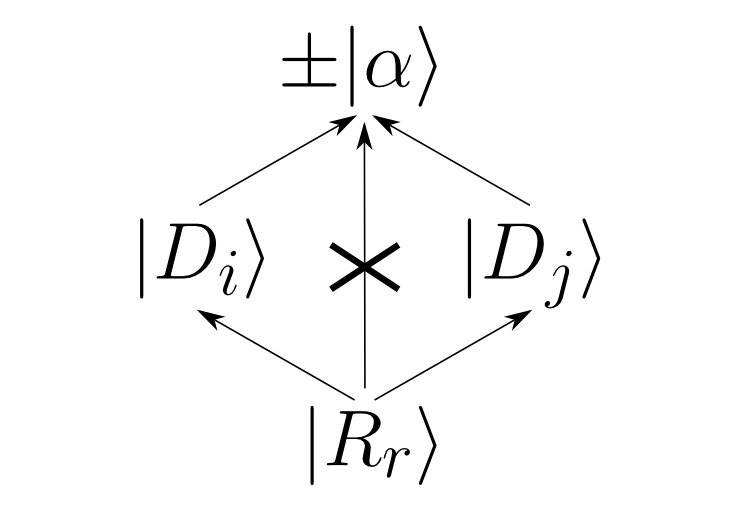
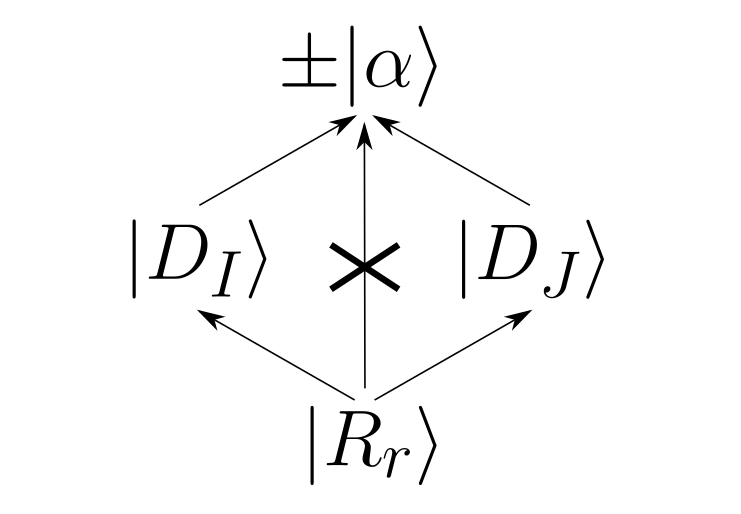
figures

Changed region(s): [[0.1552, 0.4358, 0.3725, 0.5914], [0.6208, 0.4047, 0.8381, 0.5914]]

diff --git a/exp_dressing.tex b/exp_dressing.tex
@@ -213,9 +213,9 @@ Among these intermediate sets only $\tilde{\mathcal{C}}_{r0}$ and $\tilde{\mathc
 \begin{algorithm}
 \caption{Compute a $c_\alpha$ for MRCC}
 \KwData{$\kalpha$ the considered exernal determinant}
-\KwData{$\ket {D_i}$ the list of $N$ internal determinants connected to $\kalpha$, sorted by increasing integer value}
+\KwData{$\ket {D_I}$ the list of $N$ internal determinants connected to $\kalpha$, sorted by increasing integer value}
 \KwData{$\ket {R_i}$ the list of $N_{ref}$ reference determinants sorted by increasing integer value and $c_{R_i}$ their coefficient}
-\KwData{$t_{R_r \rightarrow D_i}$ the used amplitudes}
+\KwData{$t_{R_r \rightarrow D_I}$ the used amplitudes}
 \KwResult{$c_\alpha$} 
 
 $c_\alpha \gets 0$ \;
@@ -223,24 +223,24 @@ discard $R_r$ when $\text{EXC\_DEGREE} (R_r, \alpha) > 4$ \;
 if $R_r$ so that $\text{EXC\_DEGREE} (R_r, \alpha) \leq 2$ was found, discard $\kalpha$ \;
 
 
-\ForAll{$D_j$}{
-\tcc{Note that $\phase{\ket {D_j}}{\kalpha}$ may be pre-computed here}
-$\delta \gets \alpha - D_j$ \;
+\ForAll{$D_J$}{
+\tcc{Note that $\phase{\ket {D_J}}{\kalpha}$ may be pre-computed here}
+$\delta \gets \alpha - D_J$ \;
 $i \gets 1$ \;
 $r \gets 1$ \;
 \While{$i \leq N \wedge r \leq N_{ref}$}{
-	\uIf{$D_i - R_r > \delta$}{
+	\uIf{$D_I - R_r > \delta$}{
 		$r \gets r + 1$ \;
 	}
-	\uElseIf{$D_i - R_r < \delta$}{
+	\uElseIf{$D_I - R_r < \delta$}{
 		$i \gets i + 1$ \;
 	}
 	\Else
 	{
-		\If{$R_r \oplus D_i \oplus D_j \oplus \alpha = 0$}{
+		\If{$R_r \oplus D_I \oplus D_J \oplus \alpha = 0$}{
 			\tcc{diamond found}
-			$\varphi \gets \phase{\ket {D_j}}{\kalpha} \times \phase{\ket {R_r}}{\ket {D_i}}$ \;
-			$c_\alpha \gets c_\alpha + \varphi \times c_{R_r} \times (t_{R_r \rightarrow D_i}) \times (t_{R_r \rightarrow D_j})$ \;
+			$\varphi \gets \phase{\ket {D_J}}{\kalpha} \times \phase{\ket {R_r}}{\ket {D_I}}$ \;
+			$c_\alpha \gets c_\alpha + \varphi \times c_{R_r} \times (t_{R_r \rightarrow D_I}) \times (t_{R_r \rightarrow D_J})$ \;
 		}
 		$r \gets r + 1$ \;
 		$i \gets i + 1$ \;
@@ -264,20 +264,20 @@ The formula for $c_\alpha$ as well as the procedure for computing amplitudes is 
 	\end{center}
 %\end{figure}
 
-With $\kalpha$ the external determinant being considered, $\ket {D_i}$ and $\ket {D_j}$ internal determinants, and $\ket {R_r}$ a reference determinant.  Parallel arrows indicate connections (excitation degree at most 2) by the same excitation, the vertical arrow indicates $\ket {R_r}$ and $\kalpha$ aren't connected (excitation degree at least 3). More generally, we only consider $\kalpha$ determinants that are not connected to any $\ket {R_r}$. All the determinants we are considering are ordered according to $\ordering$.
+With $\kalpha$ the external determinant being considered, $\ket {D_I}$ and $\ket {D_J}$ internal determinants, and $\ket {R_r}$ a reference determinant.  Parallel arrows indicate connections (excitation degree at most 2) by the same excitation, the vertical arrow indicates $\ket {R_r}$ and $\kalpha$ aren't connected (excitation degree at least 3). More generally, we only consider $\kalpha$ determinants that are not connected to any $\ket {R_r}$. All the determinants we are considering are ordered according to $\ordering$.
 
 The matrix dressing implementation supplies $\{\mathcal{D}\}$ the complete set of the $N$ internal determinants that connect to $\kalpha$. We call $\{\mathcal{R}\}$ the set of the $N_{ref}$ reference determinants.
 
 A naive way to find those diamonds, would be to loop over all unordered triplets 
 
 \begin{equation}
-(D_i \in \{\mathcal{D}\}, D_j \in \{\mathcal{D}\}, R_r \in \{\mathcal{R}\})
+(D_I \in \{\mathcal{D}\}, D_J \in \{\mathcal{D}\}, R_r \in \{\mathcal{R}\})
 \end{equation}
 
 so that
 
 \begin{equation}
-\hat T_{R_r \rightarrow D_i} \hat T_{R_r \rightarrow D_j} \ket {R_r} = \pm \kalpha
+\hat T_{R_r \rightarrow D_I} \hat T_{R_r \rightarrow D_J} \ket {R_r} = \pm \kalpha
 \end{equation}
 
 with $\hat T_{R_r \rightarrow D}$ the excitation operator so that $\hat T_{R_r \rightarrow D} \ket R = \ket D$.
@@ -286,11 +286,11 @@ with $\hat T_{R_r \rightarrow D}$ the excitation operator so that $\hat T_{R_r \
 
 Using excitation operators, a diamond can be identified by only verifying
 \begin{equation}
-\hat T_{R_r \rightarrow D_i} = \pm \hat T_{D_j \rightarrow \alpha}
+\hat T_{R_r \rightarrow D_I} = \pm \hat T_{D_J \rightarrow \alpha}
 \label{eq:excitation_diamond}
 \end{equation}
 
-In other words that $\hat T_{R_r \rightarrow D_i}$ and $\hat T_{D_j \rightarrow \alpha}$ involve the same holes and particles (the sign of $T_{D_j \rightarrow \alpha}$ sets the sign in of $\kalpha$ in a diamond).
+In other words that $\hat T_{R_r \rightarrow D_I}$ and $\hat T_{D_J \rightarrow \alpha}$ involve the same holes and particles (the sign of $T_{D_J \rightarrow \alpha}$ sets the sign in of $\kalpha$ in a diamond).
 We first set up a method to identify a diamond, then two methods to ``locate'' them.
 
 
@@ -313,16 +313,16 @@ This avoids the burden of making a distinction between anihilation and creation 
 
 The notation $\hat f_{ab\ldots}$ will be used as a shortcut for $\hat f_a \hat f_b \ldots$, and we define $\hat F_{A \rightarrow B} = \hat F_{B \rightarrow A}$ as the set of $\hat f$ operators that flips all spinorbitals whose occupation differ between $\ket A$ and $\ket B$.
 
-Clearly a set of $\hat f$ operators does not univocaly correspond to an excitation, but it is demonstrable that in this particular case, we can use $\hat F$ instead of the excitation operator $\hat T$, i.e. we can ensure $(R_r, D_i, D_j, \alpha)$ are forming a diamond by only verifying
+Clearly a set of $\hat f$ operators does not univocaly correspond to an excitation, but it is demonstrable that in this particular case, we can use $\hat F$ instead of the excitation operator $\hat T$, i.e. we can ensure $(R_r, D_I, D_J, \alpha)$ are forming a diamond by only verifying
 \begin{equation}
-\hat F_{R_r \rightarrow D_i} = \hat F_{D_j \rightarrow \alpha}
+\hat F_{R_r \rightarrow D_I} = \hat F_{D_J \rightarrow \alpha}
 \label{eq:diamond_flip}
 \end{equation}
 
-It is easy to understand from Eq.~\eqref{eq:excitation_diamond} how this is a necessary condition, it is less obvious that it is also a sufficient one, i.e. that this can only happen if there is a diamond. In fact, it is not generally true. It is demonstrable in this particular case thanks to the known excitation degrees. It is known $\ket {D_i}$ and $\ket {D_j}$ are connected by at most a double excitation to $\kalpha$, therefore at most 4 orbitals have their occupation status flipping, two of them occupied and two unoccupied in $\kalpha$. For later clarity we use the dot ($\dot a$) notation to denote indices of spinorbitals that are occupied in $\kalpha$.
+It is easy to understand from Eq.~\eqref{eq:excitation_diamond} how this is a necessary condition, it is less obvious that it is also a sufficient one, i.e. that this can only happen if there is a diamond. In fact, it is not generally true. It is demonstrable in this particular case thanks to the known excitation degrees. It is known $\ket {D_I}$ and $\ket {D_J}$ are connected by at most a double excitation to $\kalpha$, therefore at most 4 orbitals have their occupation status flipping, two of them occupied and two unoccupied in $\kalpha$. For later clarity we use the dot ($\dot a$) notation to denote indices of spinorbitals that are occupied in $\kalpha$.
 
 \begin{equation}
-\hat F_{D_i \rightarrow \alpha} = \hat F_{R_r \rightarrow D_j} = \hat f_{\dot a \dot bcd} \; ; \; \hat F_{D_j \rightarrow \alpha} = \hat F_{R_r \rightarrow D_i} = \hat f_{\dot e \dot fgh}
+\hat F_{D_I \rightarrow \alpha} = \hat F_{R_r \rightarrow D_J} = \hat f_{\dot a \dot bcd} \; ; \; \hat F_{D_J \rightarrow \alpha} = \hat F_{R_r \rightarrow D_I} = \hat f_{\dot e \dot fgh}
 \end{equation}
 
 The reference determinant $\ket {R_r}$ is reached from $\kalpha$ after chaining the two ``flippenings''.
@@ -331,7 +331,7 @@ The reference determinant $\ket {R_r}$ is reached from $\kalpha$ after chaining 
 \hat F_{R \rightarrow \alpha} = (\hat f_{\dot a \dot bcd})(\hat f_{\dot e \dot fgh})
 \end{equation}
 
-If indices $\dot a,\dot b,c,d,\dot e,\dot f,g,h$ are all unique, $\hat T_{R \rightarrow D_i}$ and $\hat T_{D_j \rightarrow \alpha}$ are independent and thus can be chained, so the diamond is valid. If they are not, the diamond is still known to be valid thanks to our knowledge that $\kalpha$ is at least a triple excitation from $\ket {R_r}$, and therefore at least 6 orbitals must flip. 
+If indices $\dot a,\dot b,c,d,\dot e,\dot f,g,h$ are all unique, $\hat T_{R \rightarrow D_I}$ and $\hat T_{D_J \rightarrow \alpha}$ are independent and thus can be chained, so the diamond is valid. If they are not, the diamond is still known to be valid thanks to our knowledge that $\kalpha$ is at least a triple excitation from $\ket {R_r}$, and therefore at least 6 orbitals must flip. 
 
 It is trivial that
 
@@ -358,13 +358,13 @@ With $A$ a single bitstring associated with $\ket A$ - the association between a
 Eq.~\eqref{eq:diamond_flip} is verified iff
 
 \begin{equation}
-R_r \oplus D_i = D_j \oplus \alpha
+R_r \oplus D_I = D_J \oplus \alpha
 \end{equation}
 
 or alternatively, since $A \oplus A = 0$
 
 \begin{equation}
-R_r \oplus D_i \oplus D_j \oplus \alpha = 0
+R_r \oplus D_I \oplus D_J \oplus \alpha = 0
 \label{eq:diamond_xor}
 \end{equation}
 
@@ -372,27 +372,27 @@ R_r \oplus D_i \oplus D_j \oplus \alpha = 0
 Now that we expressed the identification of a diamond in a simple way, we must figure a strategy to find them fast. Eq.~\eqref{eq:diamond_xor} can be rewritten as
 
 \begin{equation}
-D_j = R_r \oplus D_i \oplus \alpha
+D_J = R_r \oplus D_I \oplus \alpha
 \end{equation}
 
 which implies a simple algorithm that finds the diamonds in $\mathcal{O}(N \times N_{ref} \times log(N))$.
 \begin{enumerate}
 \item
-iterate over $(R_r, D_i)$
+iterate over $(R_r, D_I)$
 \item
-binary search for $D_j = (R_r \oplus D_i \oplus \alpha)$ in $\{D\}$. 
+binary search for $D_J = (R_r \oplus D_I \oplus \alpha)$ in $\{\mathcal{D}\}$. 
 \end{enumerate}
 
 Depending on the size of $\{D\}$ and $\{R\}$ sets, this variant can also be used, giving a complexity of $\mathcal{O}(N^2 \times log(N_{ref}))$.
 
 \begin{enumerate}
 \item
-iterate over $(D_i, D_j)$
+iterate over $(D_I, D_J)$
 \item
-binary search for $R_r = (D_i \oplus D_j \oplus \alpha)$ in $\{\mathcal{R}\}$. 
+binary search for $R_r = (D_I \oplus D_J \oplus \alpha)$ in $\{\mathcal{R}\}$. 
 \end{enumerate}
 
-Those are desirable if one of $\{\mathcal{D}\}$ or $\{\mathcal{R}\}$ is relatively small, in particular, in case of single-reference computation, i.e. $|R|=1$, the former variant is ideal. For larger sets, however, a more complex variant with a complexity $\mathcal{O}(N \times (N+N_{ref}))$ is introduced next.
+Those are desirable if one of $\{\mathcal{D}\}$ or $\{\mathcal{R}\}$ is relatively small, in particular, in case of single-reference computation, i.e. $|\mathcal{R}|=1$, the former variant is ideal. For larger sets, however, a more complex variant with a complexity $\mathcal{O}(N \times (N+N_{ref}))$ is introduced next.
 
 
 \paragraph{Locating diamonds by rewriting excitations as additions}
@@ -409,7 +409,7 @@ T_{A \rightarrow B} + A = B
 With $A$ the bitstring associated with $\ket A$ as a single integer - the association between a spinorbital and a bit is arbitrary. It is a necessary but not sufficent condition for a diamond that
 
 \begin{equation}
-T_{R \rightarrow D_i} = T_{D_j \rightarrow \alpha}
+T_{R \rightarrow D_I} = T_{D_J \rightarrow \alpha}
 \end{equation}
 
 Indeed 
@@ -422,10 +422,10 @@ with $T$ the integer associated with excitation $\pm \hat T$. If $\pm \hat T \ke
 Eq.~\eqref{eq:excitation_diamond} implies
 
 \begin{align}
-D_i - R_r = \alpha - D_j 
+D_I - R_r = \alpha - D_J 
 \end{align}
 
-Finding all $(D_i, R_r)$ pairs that verify this, assuming $\{\mathcal{D}\}$ and $\{\mathcal{R}\}$ are sorted in ascending order, can be achieved with linear complexity.
+Finding all $(D_I, R_r)$ pairs that verify this, assuming $\{\mathcal{D}\}$ and $\{\mathcal{R}\}$ are sorted in ascending order, can be achieved with linear complexity.
 
 % with a complexity of either $\mathcal{O}(N + N_{ref})$ or $\mathcal{O}(N \times min(N, N_{ref}) \times log(max(N, N_{ref})))$
 
@@ -435,11 +435,11 @@ initialize $i$ and $r$ to $1$
 \item
 loop while both $i$ and $r$ are not out of bounds
 \item
-if $D_i - R_r < \alpha - D_j$, increment $i$ and loop
+if $D_I - R_r < \alpha - D_J$, increment $i$ and loop
 \item
-if $D_i - R_r > \alpha - D_j$, increment $r$ and loop
+if $D_I - R_r > \alpha - D_J$, increment $r$ and loop
 \item
-if $D_i - R_r = \alpha - D_j$, a $(D_i, R_r)$ pair has been found. Check diamond using Eq.~\eqref{eq:diamond_xor}. Increment $i$ and $r$, and loop
+if $D_I - R_r = \alpha - D_J$, a $(D_I, R_r)$ pair has been found. Check diamond using Eq.~\eqref{eq:diamond_xor}. Increment $i$ and $r$, and loop
 \end{enumerate}
 
 The complexity is $\mathcal{O}(N \times (N+N_{ref}))$.
@@ -477,7 +477,7 @@ t_{I \rightarrow i} = \frac{t_{pq \rightarrow rs}}{\phase{\ket I}{\ket i}}
 In order to compute the contribution of a diamond to $c_\alpha$, we are required to compute the phase factor
 
 \begin{equation}
-\phase{\ket {R_r}}{\kalpha} = \phase{\ket {R_r}}{\ket {D_i}} \phase{\ket {D_i}}{\kalpha}
+\phase{\ket {R_r}}{\kalpha} = \phase{\ket {R_r}}{\ket {D_I}} \phase{\ket {D_I}}{\kalpha}
 \end{equation}
 
 
@@ -485,19 +485,19 @@ In order to compute the contribution of a diamond to $c_\alpha$, we are required
 which is noted $(-1)^{n(I \rightarrow \alpha)}$ in equation 26 of the presented article, with $I$ the reference determinant. The article uses reference-independent notation for amplitudes. If we re-write the formula with reference-dependent notations, the contribution for each diamond becomes
 
 \begin{equation}
-c_r \phase{\ket {R_r}}{\kalpha} \frac{t_{R_r \rightarrow D_i}}{\phase{\ket {R_r}}{\ket {D_i}}} \frac{t_{D_i \rightarrow \alpha}}{\phase{\ket {D_i}}{\kalpha}} =c_r t_{R_r \rightarrow D_i} t_{D_i \rightarrow \alpha}
+c_r \phase{\ket {R_r}}{\kalpha} \frac{t_{R_r \rightarrow D_I}}{\phase{\ket {R_r}}{\ket {D_I}}} \frac{t_{D_I \rightarrow \alpha}}{\phase{\ket {D_I}}{\kalpha}} =c_r t_{R_r \rightarrow D_I} t_{D_I \rightarrow \alpha}
 \end{equation}
 with $c_r$ the coefficient of $\ket {R_r}$.
-Amplitude for $t_{D_i \rightarrow \alpha}$ of course cannot be stored and would be too expensice to compute on the fly. Because $\hat T_{D_i \rightarrow \alpha}$ involves the same orbitals as $\hat T_{R_r \rightarrow D_j}$, their associated amplitudes are the same up to the phase factor
+Amplitude for $t_{D_I \rightarrow \alpha}$ of course cannot be stored and would be too expensice to compute on the fly. Because $\hat T_{D_I \rightarrow \alpha}$ involves the same orbitals as $\hat T_{R_r \rightarrow D_J}$, their associated amplitudes are the same up to the phase factor
 
 \begin{equation}
-t_{D_i \rightarrow \alpha} = t_{R_r \rightarrow D_j} \phase{\ket {R_r}}{\ket {D_j}}\phase{\ket {D_i}}{\kalpha}
+t_{D_I \rightarrow \alpha} = t_{R_r \rightarrow D_J} \phase{\ket {R_r}}{\ket {D_J}}\phase{\ket {D_I}}{\kalpha}
 \end{equation}
 
 So we can finally rewrite the contribution to $c_\alpha$ for each diamond
 
 \begin{equation}
-c_r t_{R_r \rightarrow D_i} t_{R_r \rightarrow D_j} \phase{\ket {R_r}}{\ket {D_j}}\phase{\ket {D_i}}{\kalpha}
+c_r t_{R_r \rightarrow D_I} t_{R_r \rightarrow D_J} \phase{\ket {R_r}}{\ket {D_J}}\phase{\ket {D_I}}{\kalpha}
 \end{equation}
 
 \end{document}

diff --git a/matrix_dressing.tex b/matrix_dressing.tex
@@ -252,7 +252,6 @@ with $j$ the task index associated with $I$, i.e. $Q[j]=I$. These sets are track
 	\begin{center}
 		\includegraphics[width=0.45\columnwidth]{figures/matrix_dressing/taskqueue}
 		\caption{Task queue divided in checkpoints $\mathcal{P}_m$. The task array $Q$ contains the indices of samples to be computed. When all tasks in sets $\mathcal{P}_{p\leq m}$ have been computed, checkpoint $m$ is computable.
-\alert{Refaire la figure avec des $Q$.}
 }
 		\label{fig:task_queue}
 	\end{center}

diff --git a/cipsi.tex b/cipsi.tex
@@ -60,7 +60,7 @@ There are, perhaps schematically, two ways to do this :
 
 %\begin{figure}[h!]
 	\begin{center}
-		\includegraphics[width=0.4\columnwidth]{figures/matrix_dressing/interactions}
+		\includegraphics[width=0.45\columnwidth]{figures/matrix_dressing/interactions}
 	\end{center}
 	%\caption{\label{interactions}}
 %\end{figure}
